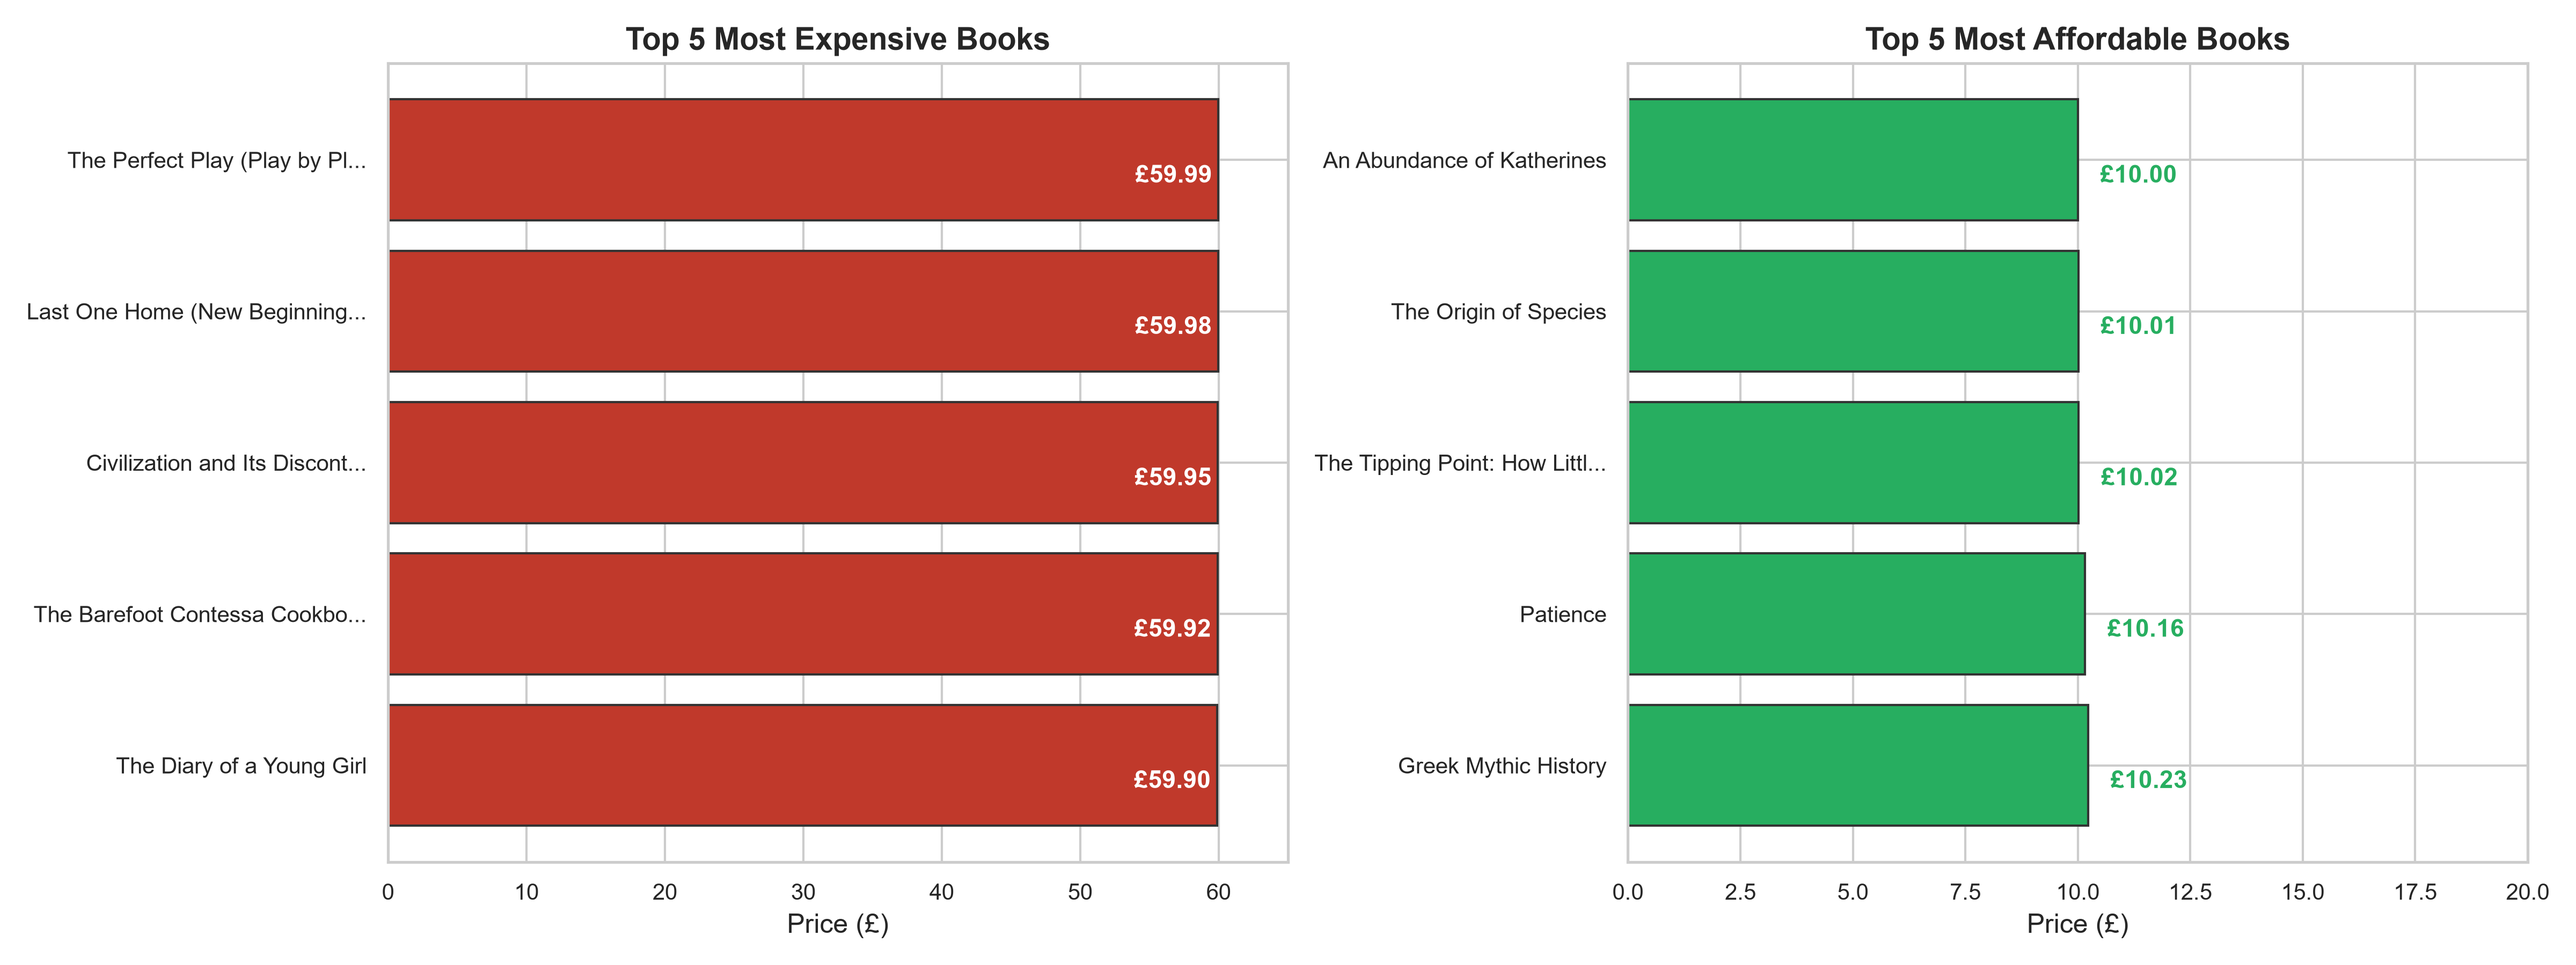
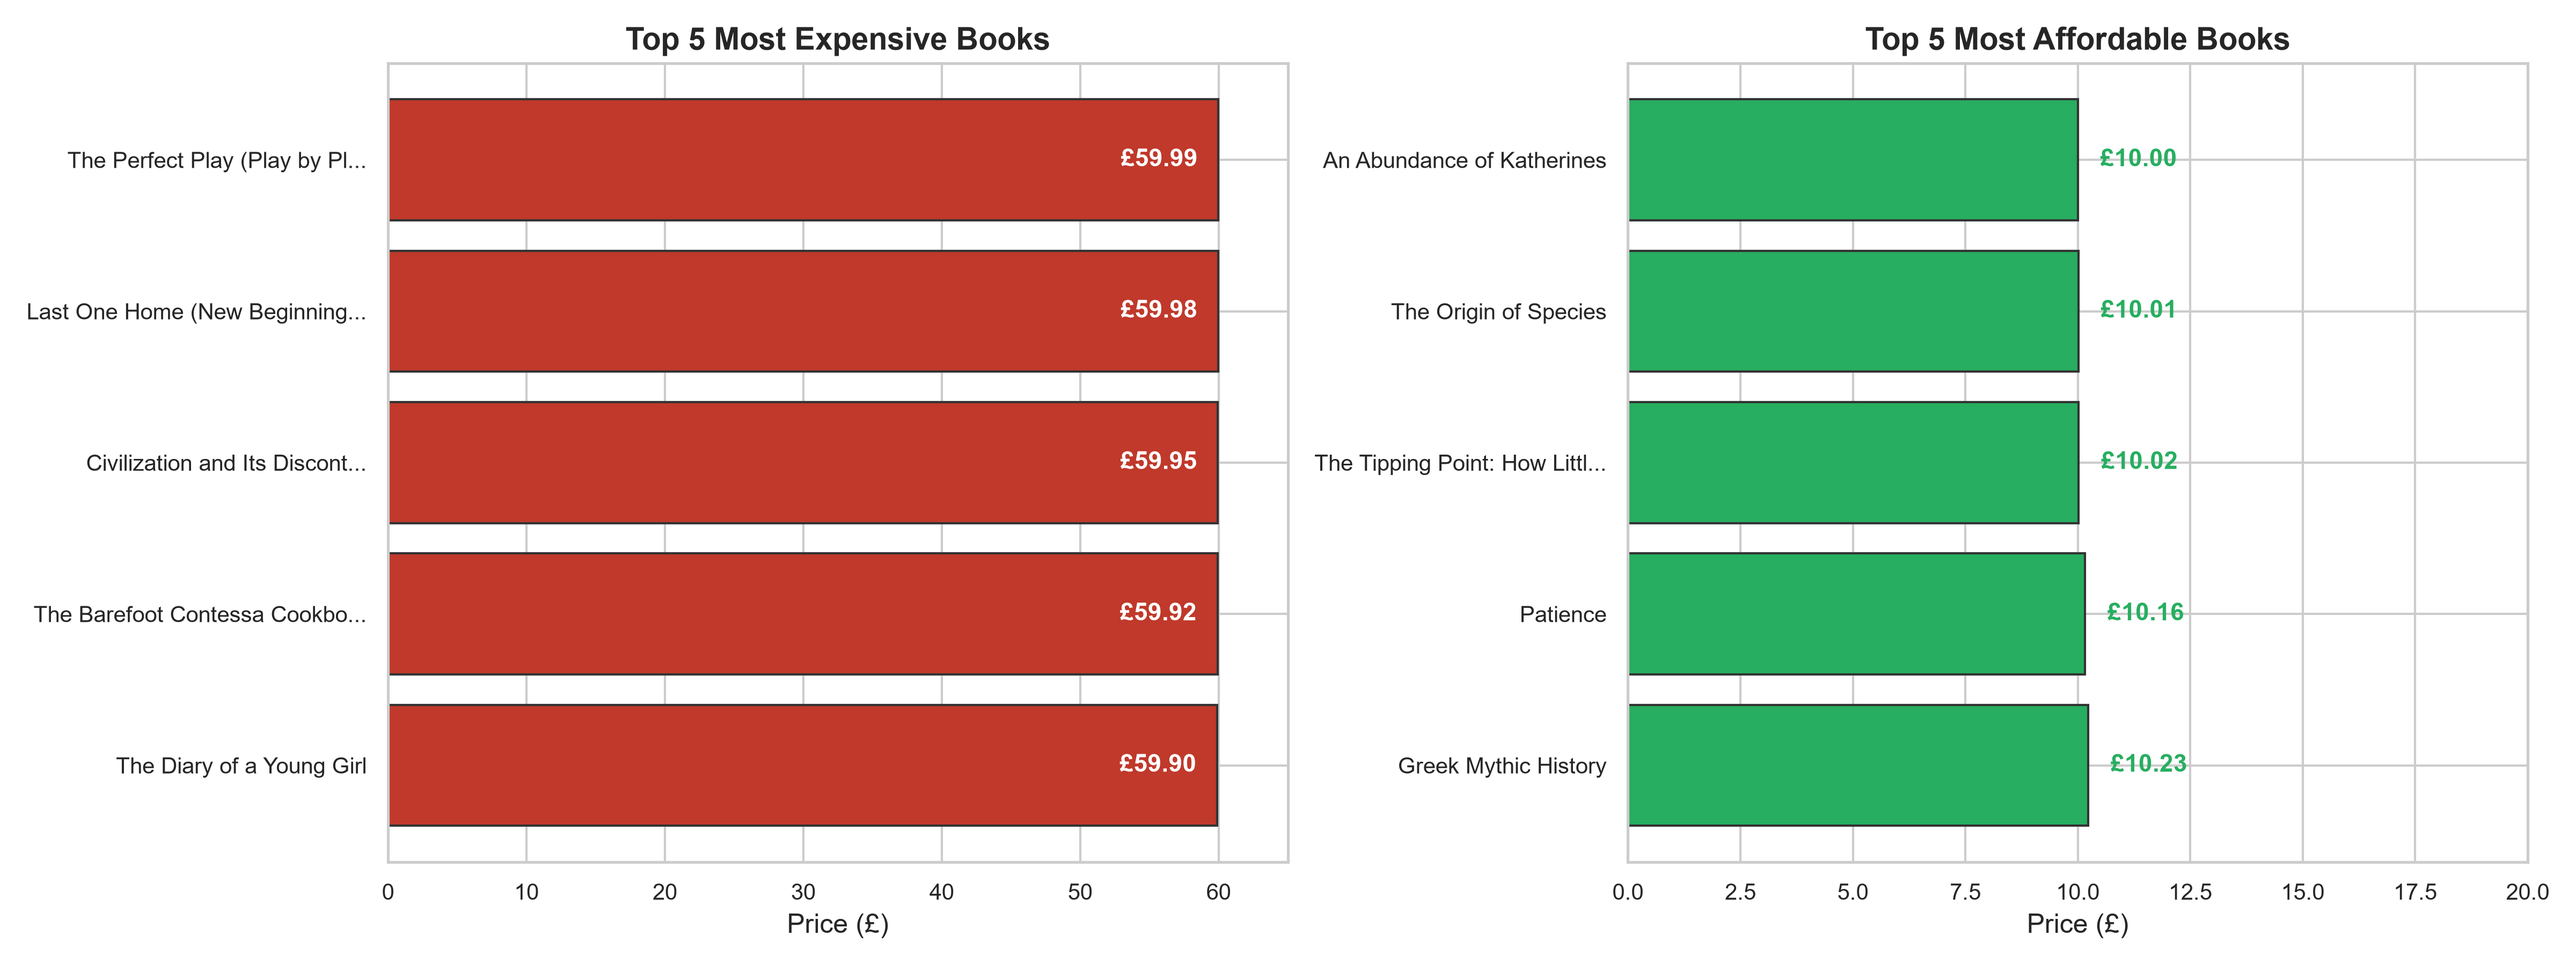
fix: harden path resolution across working directories, enhance price regex, and center bar chart labels

diff --git a/src/clean_data.py b/src/clean_data.py
@@ -30,6 +30,8 @@ if sys.stdout.encoding and sys.stdout.encoding.lower() != 'utf-8':
     except AttributeError:
         pass
 
+PROJECT_ROOT = os.path.dirname(os.path.dirname(os.path.abspath(__file__)))
+
 
 def repair_text_encoding(text: str) -> str:
     """
@@ -40,7 +42,7 @@ def repair_text_encoding(text: str) -> str:
         return text
     try:
         # Re-encode as latin1 and decode as utf-8
-        return text.encode('latin1').decode('utf-8')
+        return text.encode('latin1').decode('utf-8').strip()
     except (UnicodeEncodeError, UnicodeDecodeError):
         return text.strip()
 
@@ -69,13 +71,12 @@ def clean_books_data(raw_csv_path: str, output_csv_path: str) -> pd.DataFrame:
 
     # 3. Extract numeric price (in GBP £)
     print("[4/6] Parsing price into numeric float values...")
-    # Extract digits and decimal point: handles '£51.77', 'Â£51.77', etc.
-    df['price_gbp'] = (
-        df['Price']
-        .astype(str)
-        .str.extract(r'(\d+\.\d+)')[0]
-        .astype(float)
-    )
+    # Extract numeric amount (handles '£51.77', 'Â£51.77', '£10', etc.)
+    extracted_prices = df['Price'].astype(str).str.extract(r'(\d+(?:\.\d+)?)')[0]
+    if extracted_prices.isnull().any():
+        invalid = df[extracted_prices.isnull()]['Price'].tolist()
+        raise ValueError(f"Failed to extract numeric price from values: {invalid}")
+    df['price_gbp'] = extracted_prices.astype(float)
 
     # 4. Map textual star rating to numeric integer (1 to 5)
     print("[5/6] Mapping star ratings to numeric values (1-5)...")
@@ -86,7 +87,11 @@ def clean_books_data(raw_csv_path: str, output_csv_path: str) -> pd.DataFrame:
         'Four': 4,
         'Five': 5
     }
-    df['rating_numeric'] = df['Rating'].map(rating_map).astype(int)
+    mapped_ratings = df['Rating'].astype(str).str.strip().map(rating_map)
+    if mapped_ratings.isnull().any():
+        unmapped = df[mapped_ratings.isnull()]['Rating'].unique().tolist()
+        raise ValueError(f"Encountered unexpected rating values: {unmapped}")
+    df['rating_numeric'] = mapped_ratings.astype(int)
 
     # 5. Clean availability & Engineer features
     print("[6/6] Engineering analytical features & price tiers...")
@@ -125,12 +130,11 @@ def clean_books_data(raw_csv_path: str, output_csv_path: str) -> pd.DataFrame:
 
 
 if __name__ == '__main__':
-    raw_path = os.path.join('data', 'raw', 'books_all_pages.csv')
-    # Fallback to current directory if running standalone without data/ folder
+    raw_path = os.path.join(PROJECT_ROOT, 'data', 'raw', 'books_all_pages.csv')
     if not os.path.exists(raw_path):
-        raw_path = 'books_all_pages.csv'
+        raw_path = os.path.join(PROJECT_ROOT, 'books_all_pages.csv')
 
-    processed_path = os.path.join('data', 'processed', 'books_cleaned.csv')
+    processed_path = os.path.join(PROJECT_ROOT, 'data', 'processed', 'books_cleaned.csv')
     cleaned_df = clean_books_data(raw_path, processed_path)
 
     # Display concise summary for validation

diff --git a/src/generate_charts.py b/src/generate_charts.py
@@ -16,6 +16,11 @@ Visualizations:
 
 import os
 import sys
+import tempfile
+
+# Ensure Matplotlib config directory is writable before importing matplotlib
+os.environ.setdefault("MPLCONFIGDIR", tempfile.gettempdir())
+
 import matplotlib.pyplot as plt
 import numpy as np
 import pandas as pd
@@ -28,6 +33,10 @@ if sys.stdout.encoding and sys.stdout.encoding.lower() != 'utf-8':
     except AttributeError:
         pass
 
+PROJECT_ROOT = os.path.dirname(os.path.dirname(os.path.abspath(__file__)))
+FIGURES_DIR = os.path.join(PROJECT_ROOT, "figures")
+os.makedirs(FIGURES_DIR, exist_ok=True)
+
 # Set professional visualization style
 sns.set_theme(style="whitegrid", font="sans-serif")
 plt.rcParams.update({
@@ -39,13 +48,14 @@ plt.rcParams.update({
     "figure.titlesize": 16,
 })
 
-FIGURES_DIR = "figures"
-os.makedirs(FIGURES_DIR, exist_ok=True)
 
-
-def load_data(csv_path="data/processed/books_cleaned.csv") -> pd.DataFrame:
+def load_data(csv_path=None) -> pd.DataFrame:
+    if csv_path is None:
+        csv_path = os.path.join(PROJECT_ROOT, "data", "processed", "books_cleaned.csv")
     if not os.path.exists(csv_path):
-        raise FileNotFoundError(f"Cleaned dataset not found at {csv_path}. Please run clean_data.py first.")
+        raise FileNotFoundError(
+            f"Cleaned dataset not found at {csv_path}. Please run 'python src/clean_data.py' first."
+        )
     return pd.read_csv(csv_path)
 
 
@@ -236,7 +246,15 @@ def plot_top_books(df: pd.DataFrame):
     )
     for bar in bars1:
         w = bar.get_width()
-        ax1.text(w - 6, bar.get_y() + 0.25, f"£{w:.2f}", color="white", weight="bold")
+        ax1.text(
+            w - 1.5,
+            bar.get_y() + bar.get_height() / 2,
+            f"£{w:.2f}",
+            color="white",
+            weight="bold",
+            va="center",
+            ha="right",
+        )
     ax1.set_title("Top 5 Most Expensive Books", weight="bold")
     ax1.set_xlabel("Price (£)")
     ax1.set_xlim(0, 65)
@@ -250,7 +268,15 @@ def plot_top_books(df: pd.DataFrame):
     )
     for bar in bars2:
         w = bar.get_width()
-        ax2.text(w + 0.5, bar.get_y() + 0.25, f"£{w:.2f}", color="#27ae60", weight="bold")
+        ax2.text(
+            w + 0.5,
+            bar.get_y() + bar.get_height() / 2,
+            f"£{w:.2f}",
+            color="#27ae60",
+            weight="bold",
+            va="center",
+            ha="left",
+        )
     ax2.set_title("Top 5 Most Affordable Books", weight="bold")
     ax2.set_xlabel("Price (£)")
     ax2.set_xlim(0, 20)

diff --git a/src/validate_data.py b/src/validate_data.py
@@ -13,6 +13,7 @@ Checks Performed:
 4. Price Range & Data Type Sanity Checks
 5. Star Rating Mapping & Ordinal Consistency (1 to 5)
 6. MECE Segmentation Validation (Price Tiers)
+7. Feature Engineering & Availability Consistency
 """
 
 import os
@@ -26,17 +27,19 @@ if sys.stdout.encoding and sys.stdout.encoding.lower() != 'utf-8':
     except AttributeError:
         pass
 
+PROJECT_ROOT = os.path.dirname(os.path.dirname(os.path.abspath(__file__)))
+
 
 def run_validation():
     print("=" * 65)
     print("RUNNING DATA QUALITY & INTEGRITY VALIDATION SUITE")
     print("=" * 65)
 
-    raw_path = os.path.join("data", "raw", "books_all_pages.csv")
+    raw_path = os.path.join(PROJECT_ROOT, "data", "raw", "books_all_pages.csv")
     if not os.path.exists(raw_path):
-        raw_path = "books_all_pages.csv"
+        raw_path = os.path.join(PROJECT_ROOT, "books_all_pages.csv")
 
-    proc_path = os.path.join("data", "processed", "books_cleaned.csv")
+    proc_path = os.path.join(PROJECT_ROOT, "data", "processed", "books_cleaned.csv")
 
     passed_checks = 0
     total_checks = 7
@@ -46,7 +49,10 @@ def run_validation():
     # ---------------------------------------------------------
     print("\n[Check 1/7] Verifying file existence and record counts...")
     assert os.path.exists(raw_path), f"Raw dataset not found at {raw_path}"
-    assert os.path.exists(proc_path), f"Processed dataset not found at {proc_path}"
+    assert os.path.exists(proc_path), (
+        f"Processed dataset not found at {proc_path}. "
+        "Please run 'python src/clean_data.py' first!"
+    )
 
     df_raw = pd.read_csv(raw_path)
     df_proc = pd.read_csv(proc_path)

diff --git a/analysis.py b/analysis.py
@@ -21,15 +21,17 @@ if sys.stdout.encoding and sys.stdout.encoding.lower() != 'utf-8':
     except AttributeError:
         pass
 
+PROJECT_ROOT = os.path.dirname(os.path.abspath(__file__))
+
 # Load cleaned data (fallback to cleaning if not generated yet)
-cleaned_file = os.path.join("data", "processed", "books_cleaned.csv")
+cleaned_file = os.path.join(PROJECT_ROOT, "data", "processed", "books_cleaned.csv")
 
 if not os.path.exists(cleaned_file):
     print("Cleaned file not found. Running data cleaning pipeline first...")
     from src.clean_data import clean_books_data
-    raw_file = os.path.join("data", "raw", "books_all_pages.csv")
+    raw_file = os.path.join(PROJECT_ROOT, "data", "raw", "books_all_pages.csv")
     if not os.path.exists(raw_file):
-        raw_file = "books_all_pages.csv"
+        raw_file = os.path.join(PROJECT_ROOT, "books_all_pages.csv")
     df = clean_books_data(raw_file, cleaned_file)
 else:
     df = pd.read_csv(cleaned_file)
